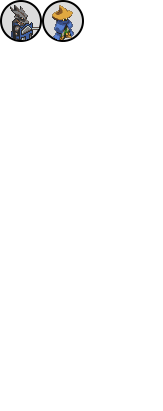
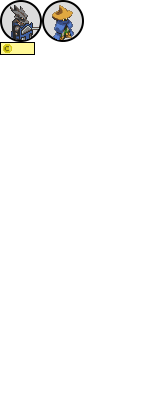
implementing coin counter

Changed region(s): [[0.0, 0.0876, 0.2147, 0.146]]

diff --git a/CursedHeaven/Motor2D/j1Hud.cpp b/CursedHeaven/Motor2D/j1Hud.cpp
@@ -20,6 +20,11 @@ j1Hud::~j1Hud() {}
 bool j1Hud::Start()
 {
 	hud_text = App->tex->Load("gui/hud.png");
+	coin_value = 20;
+	coins = (char)coin_value;
+	coins_x = 20;
+	coins_y = 10;
+	font = App->font->Load("fonts/Pixeled.ttf");
 	
 	return true;
 }
@@ -52,6 +57,7 @@ bool j1Hud::Update(float dt)
 
 	SDL_Rect dk_profile = { 0,0,42,42 };
 	SDL_Rect bm_profile = { 42,0,43,42 };
+	SDL_Rect coins_r = { 0,42,35,13 };
 
 	if (App->entity->player_type == MAGE)
 		black_mage = true;
@@ -61,8 +67,19 @@ bool j1Hud::Update(float dt)
 	if (black_mage) App->render->Blit(hud_text, 5, 5, &bm_profile, SDL_FLIP_NONE, 1.0f, 1.0f, 0.0, pivot, pivot, false);
 	else if (dragoon_knight) App->render->Blit(hud_text, 5, 5, &dk_profile, SDL_FLIP_NONE, 1.0f, 1.0f, 0.0, pivot, pivot, false);
 
+	coin_value = App->entity->currentPlayer->score_points;
+	coins = (char)coin_value;
+
+	App->render->Blit(hud_text, 16, 135, &coins_r, SDL_FLIP_NONE, 1.0f, 1.0f, 0.0, pivot, pivot, false);
+//	App->font->Print(coins, coins_x, coins_y);
+	App->gui->CreateLabel(&labels_list, LABEL, 20, 137, font, &coins);
+
+
 	for (std::list<j1Button*>::iterator item = hud_buttons.begin(); item != hud_buttons.end(); ++item) {
 		(*item)->Draw(App->gui->buttonsScale);
+	}
+	for (std::list<j1Label*>::iterator item = labels_list.begin(); item != labels_list.end(); ++item) {
+		(*item)->Draw(1.0f, 0, 0, false);
 	}
 
 	return true;
@@ -75,6 +92,10 @@ bool j1Hud::CleanUp()
 	for (std::list<j1Button*>::iterator item = hud_buttons.begin(); item != hud_buttons.end(); ++item) {
 		(*item)->CleanUp();
 		hud_buttons.remove(*item);
+	}
+	for (std::list<j1Label*>::iterator item = labels_list.begin(); item != labels_list.end(); ++item) {
+		(*item)->CleanUp();
+		labels_list.remove(*item);
 	}
 
 	return true;

diff --git a/CursedHeaven/Motor2D/j1Hud.h b/CursedHeaven/Motor2D/j1Hud.h
@@ -31,6 +31,11 @@ public:
 	bool black_mage = false;
 	bool dragoon_knight = false;
 
+	int coin_value;
+	char coins;
+	int coins_x, coins_y;
+	_TTF_Font* font = nullptr;
+
 private:
 
 	std::list<j1Label*> labels_list;
